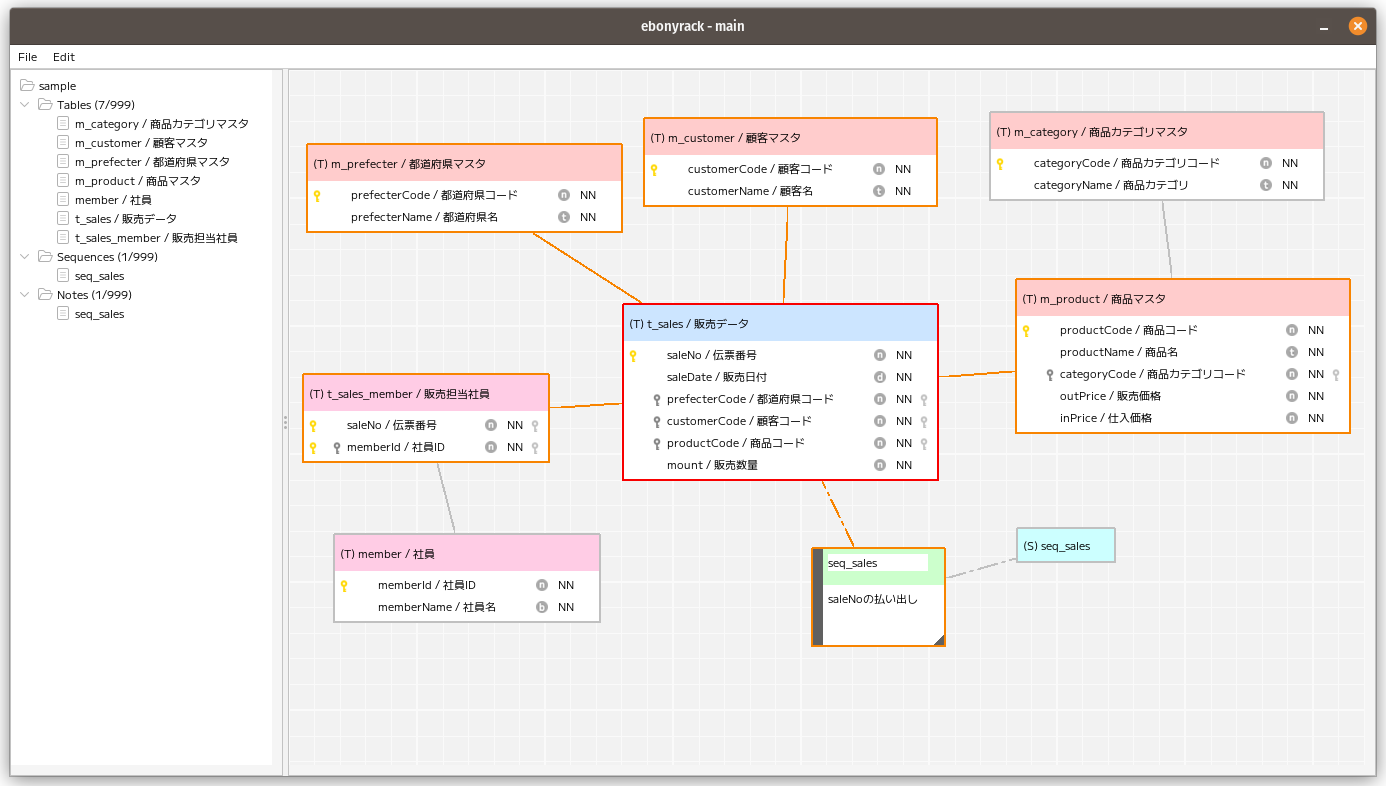
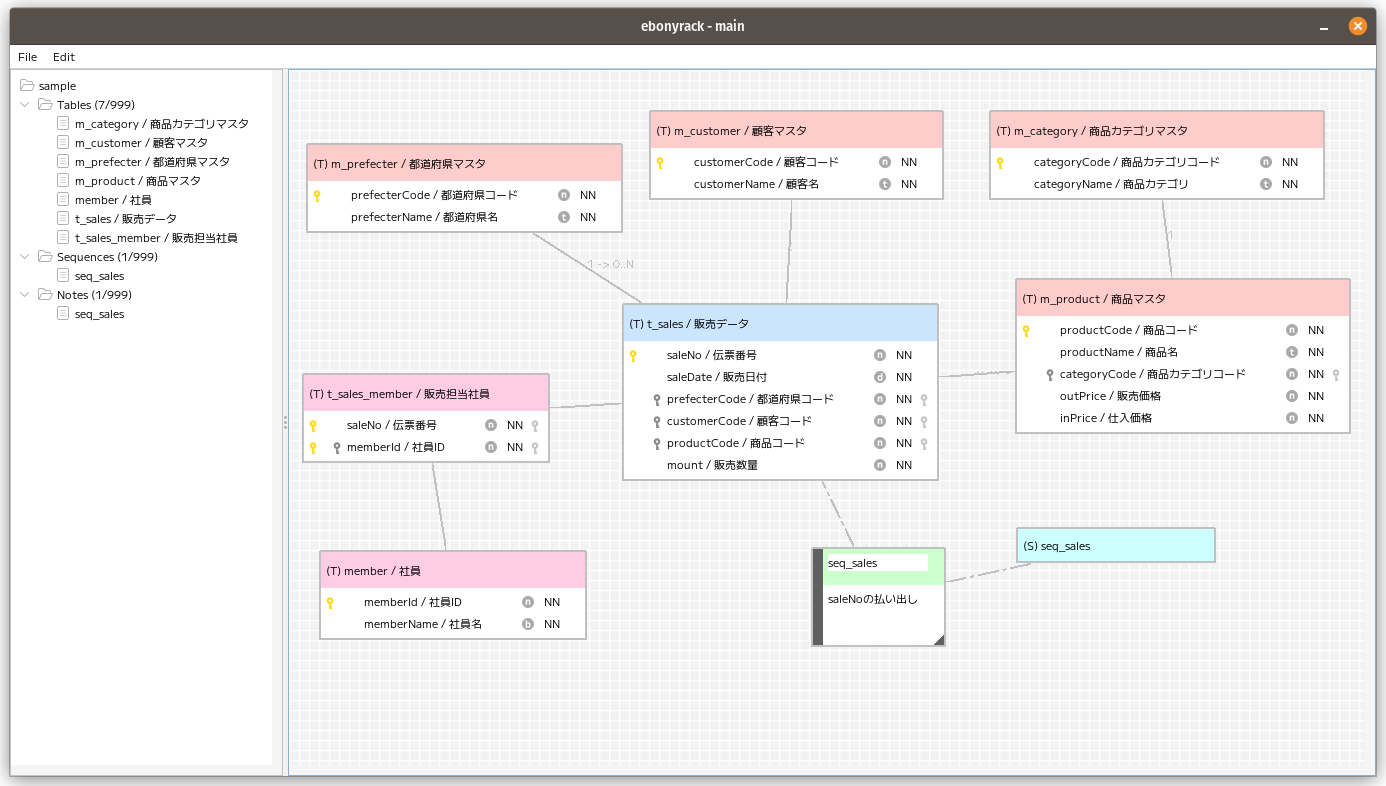
0.0.2

diff --git a/src/main/java/com/walksocket/er/custom/ErConnector.java b/src/main/java/com/walksocket/er/custom/ErConnector.java
@@ -362,6 +362,14 @@ public class ErConnector extends JPanel {
       }
       g2.setColor(lineColor);
       g2.drawLine((int) start.getX(), (int) start.getY(), (int) end.getX(), (int) end.getY());
+
+      if (relation) {
+        var cx = (int) ((start.getX() + end.getX()) / 2);
+        var cy = (int) ((start.getY() + end.getY()) / 2);
+        var r = lineStyle.getShowStyle(relationReverse);
+        g2.drawString(r, cx, cy);
+      }
+
       g2.dispose();
     }
   }
